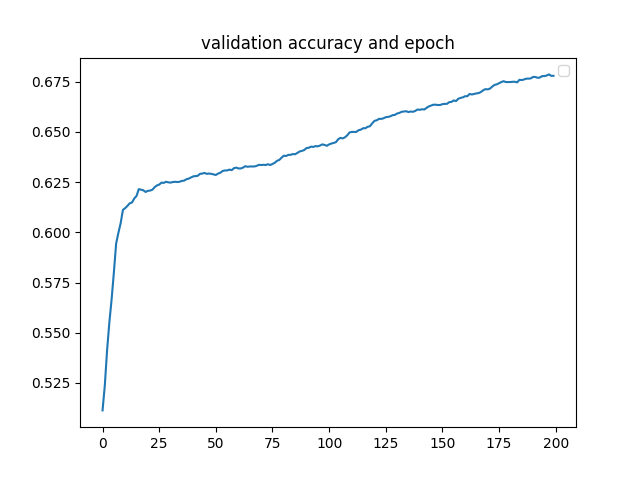
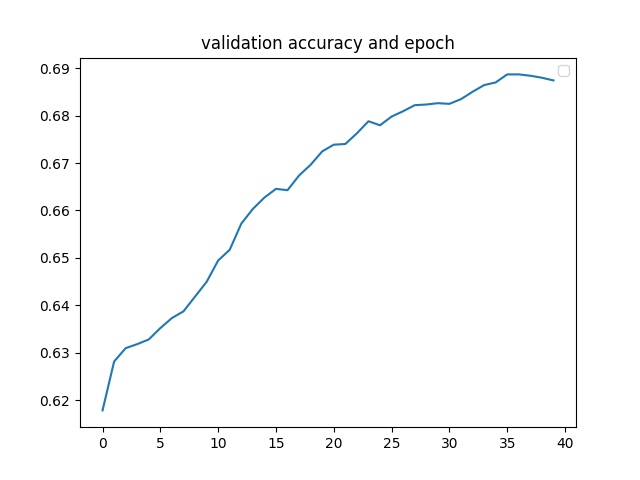
combined modifications

diff --git a/partB_test/NN_original.py b/partB_test/NN_original.py
@@ -38,7 +38,7 @@ def load_data(base_path="../data"):
 
 
 class AutoEncoder(nn.Module):
-    def __init__(self, num_question, code1, code2, code_vect):
+    def __init__(self, num_question, code1, code2, code3, code_vect):
         """ Initialize a class AutoEncoder.
 
         :param num_question: int
@@ -49,9 +49,11 @@ class AutoEncoder(nn.Module):
         # Define linear functions.
         self.g = nn.Linear(num_question, code1)
         self.encode1 = nn.Linear(code1, code2)
-        self.encode2 = nn.Linear(code2, code_vect)
-        self.decode1 = nn.Linear(code_vect, code2)
-        self.decode2 = nn.Linear(code2, code1)
+        self.encode2 = nn.Linear(code2, code3)
+        self.encode3 = nn.Linear(code3, code_vect)
+        self.decode1 = nn.Linear(code_vect, code3)
+        self.decode2 = nn.Linear(code3, code2)
+        self.decode3 = nn.Linear(code2, code1)
         self.h = nn.Linear(code1, num_question)
 
     def get_weight_norm(self):
@@ -63,9 +65,11 @@ class AutoEncoder(nn.Module):
         h_w_norm = torch.norm(self.h.weight, 2) ** 2
         en1_w_norm = torch.norm(self.encode1.weight, 2) ** 2
         en2_w_norm = torch.norm(self.encode2.weight, 2) ** 2
+        en3_n = torch.norm(self.encode3.weight, 2) **2
         de1_w_norm = torch.norm(self.decode1.weight, 2) ** 2
         de2_w_norm = torch.norm(self.decode2.weight, 2) ** 2
-        return g_w_norm + h_w_norm + en1_w_norm + en2_w_norm + de1_w_norm + de2_w_norm
+        de3_n = torch.norm(self.decode3.weight, 2) ** 2
+        return g_w_norm + h_w_norm + en1_w_norm + en2_w_norm + de1_w_norm + de2_w_norm + en3_n + de3_n
 
     def forward(self, inputs):
         """ Return a forward pass given inputs.
@@ -83,10 +87,13 @@ class AutoEncoder(nn.Module):
         inner_act = nn.Tanh()(inner)
         hidden1 = self.encode1.forward(inner_act)
         hidden2 = self.encode2.forward(hidden1)
-        hidden2_act = nn.Sigmoid()(hidden2)
-        hidden3 = self.decode1.forward(hidden2_act)
-        hidden4 = self.decode2.forward(hidden3)
-        outer = self.h.forward(hidden4)
+
+        hidden3 = self.encode3.forward(hidden2)
+        hidden3_act = nn.Sigmoid()(hidden3)
+        hidden4 = self.decode1.forward(hidden3_act)
+        hidden5 = self.decode2.forward(hidden4)
+        hidden6 = self.decode3.forward(hidden5)
+        outer = self.h.forward(hidden6)
         outer_activ = nn.Sigmoid()(outer)
         out = outer_activ
         #####################################################################
@@ -109,7 +116,6 @@ def train(model, lr, lamb, train_data, zero_train_data, valid_data, num_epoch):
     :return: None
     """
     # TODO: Add a regularizer to the cost function.
-    # discuss possibilities: 1: adding the regularization term only once
 
     # Tell PyTorch you are training the model.
     model.train()
@@ -182,10 +188,11 @@ def main():
     #####################################################################
     # Set model hyperparameters.
 
-    code1 = 100
-    code2 = 30
+    code1 = 150
+    code2 = 80
+    code3 = 30
     code_vect = 10
-    model = AutoEncoder(train_matrix.shape[1], code1, code2, code_vect)
+    model = AutoEncoder(train_matrix.shape[1], code1, code2, code3, code_vect)
 
     # Set optimization hyperparameters.
     lr = 0.001

diff --git a/part_a/neural_network.py b/part_a/neural_network.py
@@ -126,9 +126,6 @@ def train(model, lr, lamb, train_matrix, zero_train_matrix, train_data, valid_da
             norm = model.get_weight_norm()
             denom = 2
             loss = torch.sum((output - target) ** 2.) + (lamb / denom) * norm
-            # loss = torch.sum((output - target) ** 2.)
-            # setting regularization at last to reduce final model's
-            # extreme values
             loss.backward()
 
             train_loss += loss.item()
@@ -206,7 +203,7 @@ def main():
     #
     # # Set optimization hyperparameters.
     #     lr = 0.01
-    #     num_epoch = 50
+    #     num_epoch = 200
     #     lamb = 0.1
     #
     #     highest_acc = train(model, lr, lamb, train_matrix, zero_train_matrix,
@@ -215,7 +212,7 @@ def main():
     #     print("test accuracy: \n" + str(test_result))
     #     k_accuracy.append(highest_acc)
     # best_k = k_accuracy.index(max(k_accuracy))
-    # print("will use this k for further procedure due to its highest accuracy:" + str(best_k))4
+    # print("will use this k for further procedure due to its highest accuracy:" + str(best_k))
 
     # lambda_list = [1, 0.1, 0.01, 0.001]
     # lambda_accuracy = []
